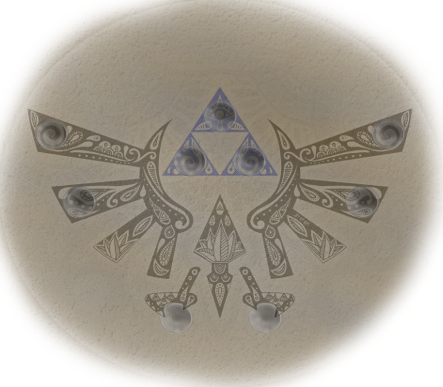
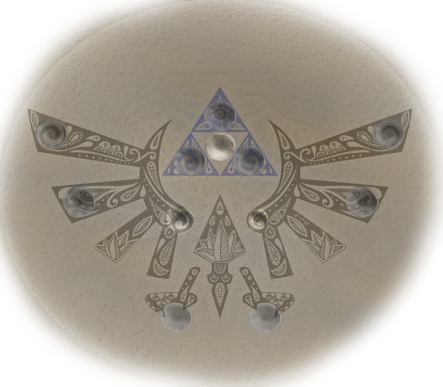
Added yellow gems

Changed region(s): [[0.4695, 0.3411, 0.5282, 0.4341], [0.3521, 0.5271, 0.4402, 0.6202], [0.5576, 0.5271, 0.6163, 0.5891]]

diff --git a/credits.md b/credits.md
@@ -119,6 +119,7 @@ Assets listed roughly in order of first appearance.
 |   | Work | Artist | Source |
 |---|------|--------|--------|
 |🖼| [Surreal Landscape with Clocks](assets/Time/Time_Sundial/background.jpg) | ValentinaPhotos | [Creative Market](https://images.creativemarket.com/0.1.0/ps/3795923/1332/1214/m1/fpnw/wm0/surreallandscapeofclocksxcm-.jpg?1514913041&s=8dadebd0e3e18849ab4f5a2c9de7a5ff) |
+|🖼| [tornado] | greglowman | [imgur](https://imgur.com/gallery/1sZbD45) |
 |🫖| Hand Pedestal | printable_models | [Free3D](https://free3d.com/3d-model/displaypedestalsopenfingers-v1--411000.html) |
 |🫖| [Sundial](assets/Time/Time_Sundial/sundial.mp4) | fabiovalle3D | [TurboSquid](https://www.turbosquid.com/3d-models/3d-sundial-sun-model-1148444) |
 |🔈| [clock-ding-dong-bright] | jacobsteel | [FreeSound.org](https://freesound.org/) |
